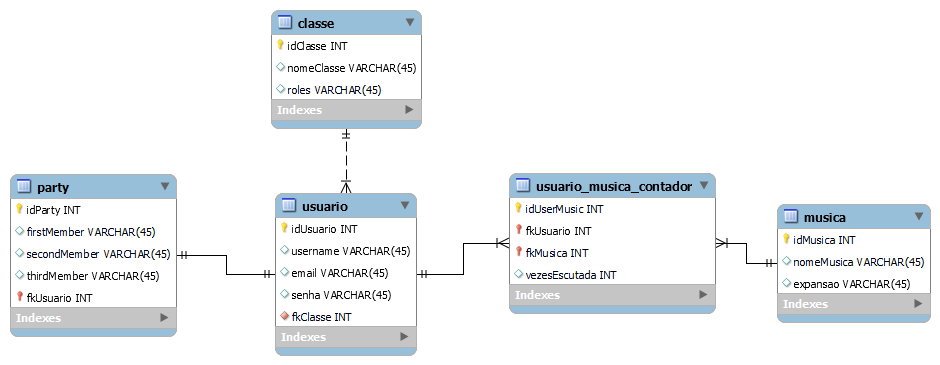
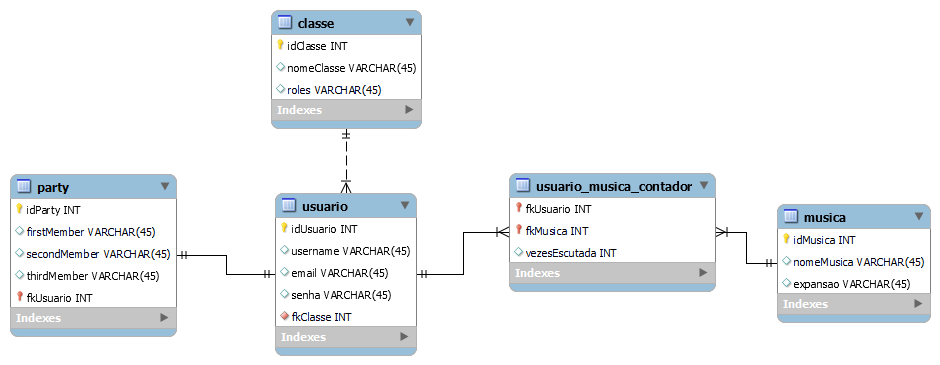
Polimento de alguns detalhes no site, script SQL e modelagem

Changed region(s): [[0.5245, 0.5425, 0.7713, 0.874], [0.7404, 0.6329, 0.8021, 0.6932]]

diff --git a/site/public/cadastro.html b/site/public/cadastro.html
@@ -26,7 +26,7 @@
         <a href="index.html#classes_scroll">
             <div class="skewed">Classes</div>
         </a>
-        <a href="musica.html">
+        <a href="musica.html" class="logado" id="navMusica">
             <div class="skewed">Músicas</div>
         </a>
 
@@ -72,7 +72,7 @@
                 <h1>Login</h1>
                 <input type="email" id="email_login" placeholder="Email" required />
                 <input type="password" id="password_login" placeholder="Senha" required />
-                <a href="#">Esqueceu sua senha?</a>
+                
                 <button type="submit">Logar</button>
             </form>
         </div>
@@ -105,19 +105,20 @@ function logadoOrNot() {
     const sairNavbar = document.getElementById("navSair");
     const perfilNavbar = document.getElementById("navPerfil");
     const sideNavbar = document.getElementById("mySidenav");
+    const musicaNavbar = document.getElementById("navMusica");
 
     if (sessionStorage.length == 0) {
       loginNavbar.classList.remove("logado");
       cadastroNavbar.classList.remove("logado");
       sairNavbar.classList.add("logado");
       perfilNavbar.classList.add("logado");
-      sideNavbar.classList.add("logado");
+      musicaNavbar.classList.add("logado");
     } else {
       loginNavbar.classList.add("logado");
       cadastroNavbar.classList.add("logado");
       sairNavbar.classList.remove("logado");
       perfilNavbar.classList.remove("logado");
-      sideNavbar.classList.remove("logado");
+      musicaNavbar.classList.remove("logado");
     }
   }
 

diff --git a/site/public/login.html b/site/public/login.html
@@ -26,7 +26,7 @@
         <a href="index.html#classes_scroll">
             <div class="skewed">Classes</div>
         </a>
-        <a href="musica.html">
+        <a href="musica.html" class="logado" id="navMusica">
             <div class="skewed">Músicas</div>
         </a>
 
@@ -72,7 +72,7 @@
                 <h1>Login</h1>
                 <input type="email" id="email_login" placeholder="Email" required />
                 <input type="password" id="password_login" placeholder="Senha" required />
-                <a href="#">Esqueceu sua senha?</a>
+                
                 <button type="submit">Logar</button>
             </form>
         </div>
@@ -104,17 +104,20 @@ function logadoOrNot() {
     const cadastroNavbar = document.getElementById("navCadastro");
     const sairNavbar = document.getElementById("navSair");
     const perfilNavbar = document.getElementById("navPerfil");
+    const musicaNavbar = document.getElementById("navMusica");
 
     if (sessionStorage.length == 0) {
       loginNavbar.classList.remove("logado");
       cadastroNavbar.classList.remove("logado");
       sairNavbar.classList.add("logado");
       perfilNavbar.classList.add("logado");
+      musicaNavbar.classList.add("logado");
     } else {
       loginNavbar.classList.add("logado");
       cadastroNavbar.classList.add("logado");
       sairNavbar.classList.remove("logado");
       perfilNavbar.classList.remove("logado");
+      musicaNavbar.classList.remove("logado");
     }
   }
 

diff --git a/site/public/index.html b/site/public/index.html
@@ -27,7 +27,7 @@
     <a href="#classes" onclick="ClassesScroll()">
       <div class="skewed">Classes</div>
     </a>
-    <a href="musica.html">
+    <a href="musica.html" class="logado" id="navMusica">
       <div class="skewed">Músicas</div>
     </a>
 
@@ -336,6 +336,7 @@
     const perfilNavbar = document.getElementById("navPerfil");
     const sideNavbar = document.getElementById("mySidenav");
     const sideClasseNavbar = document.getElementById("mySidenavClasse");
+    const musicaNavbar = document.getElementById("navMusica");
 
     if (sessionStorage.length == 0) {
       loginNavbar.classList.remove("logado");
@@ -344,6 +345,7 @@
       perfilNavbar.classList.add("logado");
       sideNavbar.classList.add("logado");
       sideClasseNavbar.classList.add("logado");
+      musicaNavbar.classList.add("logado");
     } else {
       loginNavbar.classList.add("logado");
       cadastroNavbar.classList.add("logado");
@@ -351,6 +353,7 @@
       perfilNavbar.classList.remove("logado");
       sideNavbar.classList.remove("logado");
       sideClasseNavbar.classList.remove("logado");
+      musicaNavbar.classList.remove("logado");
     }
   }
 
